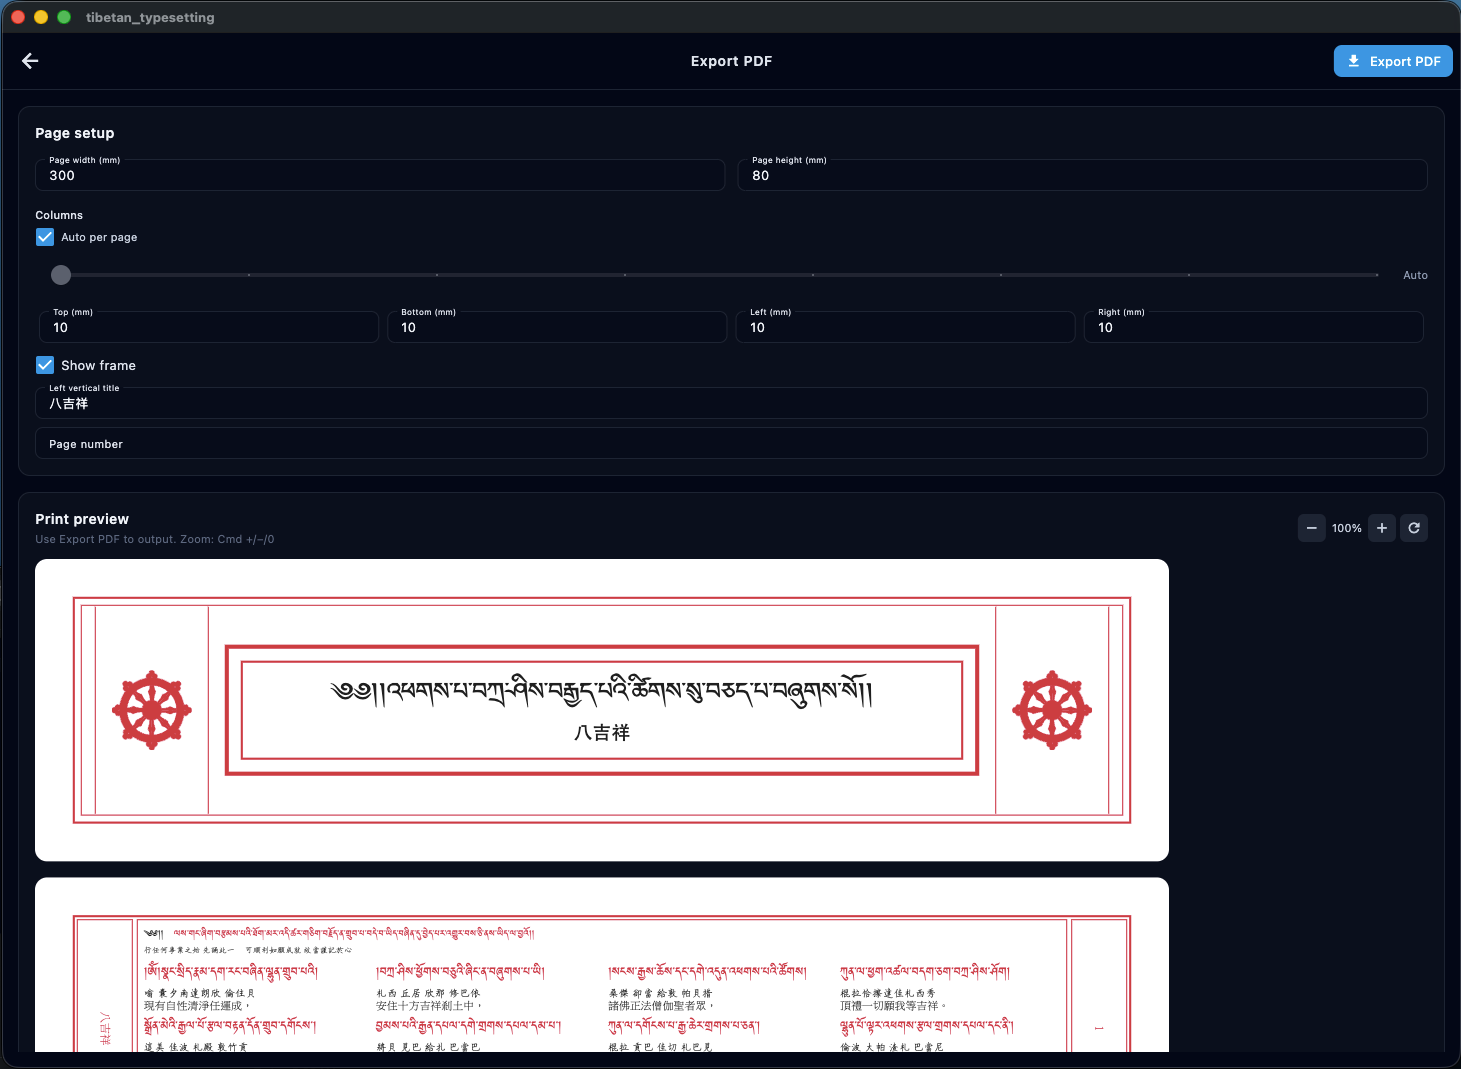
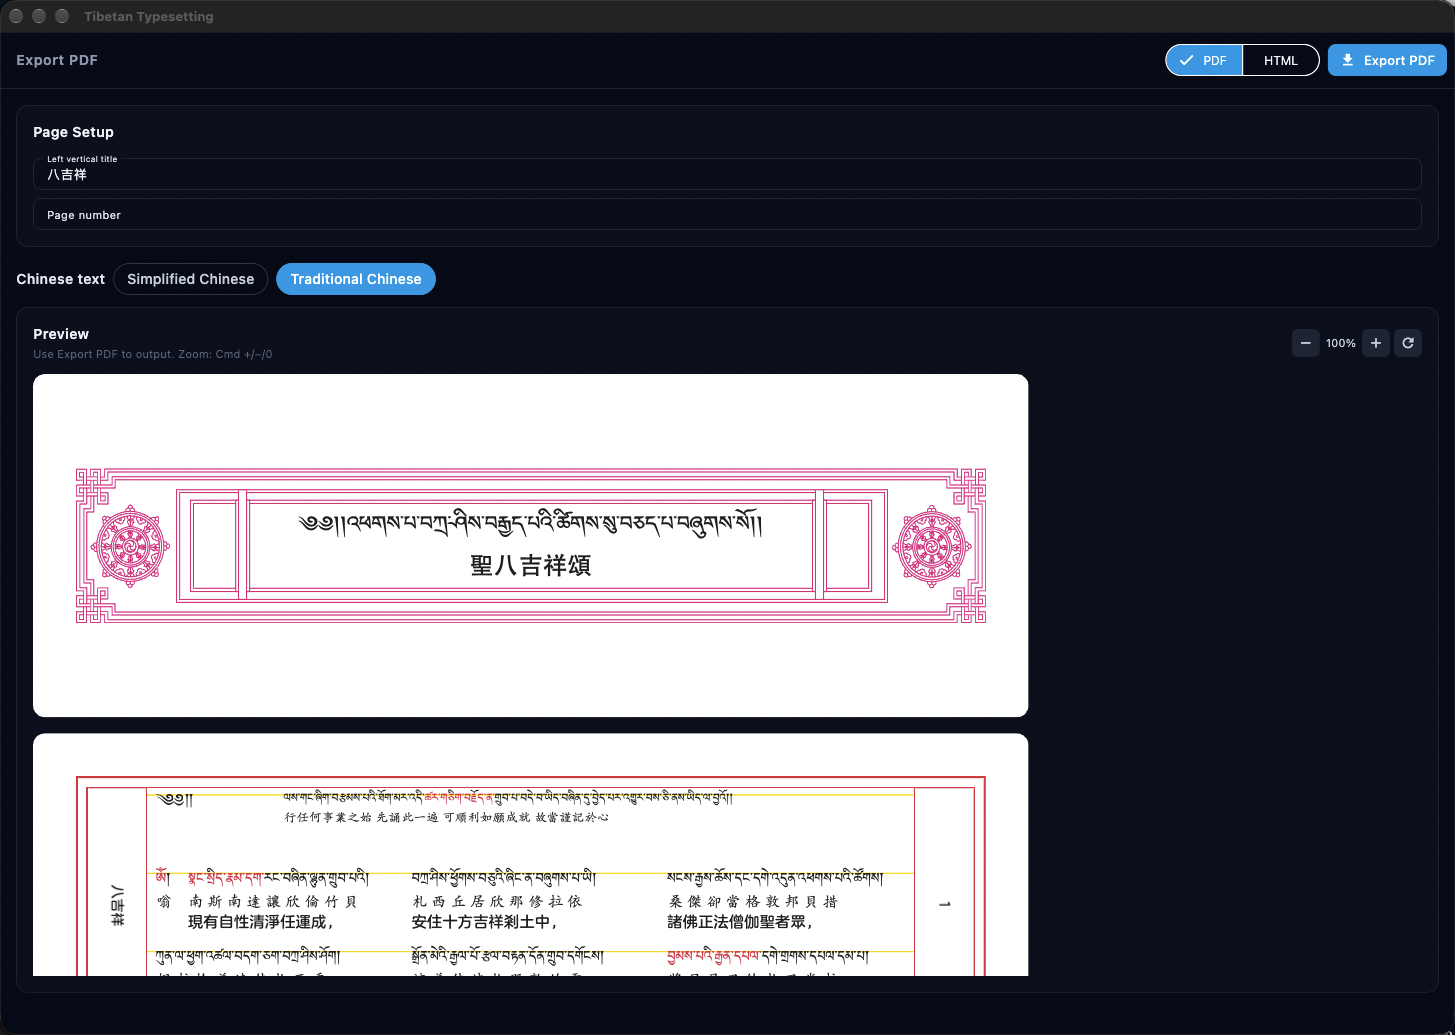
docs: refresh READMEs and screenshots for the workspace UI
- Document the workspace sidebar (Projects, Dictionary, Templates,
  Settings, recent projects) and the Templates page.
- Document the Tibetan-Chinese spacing settings (px, negative allowed).
- Note descender-safe Tibetan rasters in the rendering pipeline.
- Add screenshots: settings panels, templates; refresh main screen,
  edit screen, export PDF, and pronunciation dictionary.
- Fix the Traditional Chinese README's render scale (4x -> ~6.4x).

diff --git a/README.md b/README.md
@@ -24,6 +24,11 @@ A Flutter desktop application for creating and exporting Tibetan text documents 
 - Red character highlight — mark selected words in heading text with red ink using range notation (e.g. `1-4,6-8`) while vowel marks, tshegs, and punctuation remain black
 - **Chinese script switch** — convert all Chinese text in a project between Simplified and Traditional with one click; script is auto-detected from content when unset
 
+### 🧭 Workspace Navigation
+- Left sidebar with Projects, Dictionary, Templates, and Settings destinations
+- Recent-projects list opens the editor directly
+- Projects, dictionary, templates, and settings share one workspace shell
+
 ### 🖼 Floating Images
 - Insert images into text blocks with precise positioning
 - Configurable image dimensions (width/height in mm)
@@ -50,6 +55,8 @@ A Flutter desktop application for creating and exporting Tibetan text documents 
 
 ![Edit Screen](screenshot/edit%20screen.png)
 
+![Editor Settings](screenshot/settings%20panels.png)
+
 ### 📄 Traditional Layout
 - Traditional Tibetan book layout (landscape orientation)
 - Configurable page dimensions and margins
@@ -58,11 +65,12 @@ A Flutter desktop application for creating and exporting Tibetan text documents 
 - Page and column break controls
 - Flow gap adjustment between text sections
 - Custom title page with Dharma Wheel symbol and configurable title fonts
-- **Custom SVG title page templates** rendered as true vector graphics in PDF, with configurable insets for template and title text regions
+- **Custom SVG title page templates** managed from the Templates page and rendered as true vector graphics in PDF, with configurable insets for template and title text regions
 - **Content page templates** — apply an SVG background template to all content pages with configurable export margins
 - Opening mark blocks at the start of content
 - Optional row separator lines in editor preview and PDF export
 - Configurable small block font size — independently adjust font size for compact ("small text") blocks in app settings and per-project font settings
+- **Tibetan–Chinese spacing** — configurable gap between Tibetan and Chinese lines for both the title page and content, in px; negative values overlap the lines
 - Flexible text sizing options with per-project font settings
 - Header and footer with configurable fields (file name, page number, date, custom text)
 
@@ -84,6 +92,7 @@ The application pre-renders Tibetan text to high-resolution PNG images (460 DPI)
 - Tibetan script requires OpenType GSUB/GPOS shaping for correct rendering (stacked glyphs, vowel positioning)
 - The `pdf` package cannot perform OpenType shaping
 - PNG rasterization via Flutter's text engine produces correct Tibetan rendering at the cost of larger file size and minor pixelation at extreme zoom levels (>400%)
+- Rasters include top and bottom padding so ascenders and descenders (e.g. the ུ in ཧཱུྃ) are not clipped
 - SHA-256 based image caching for efficient re-rendering
 
 ### DPI-Aware Preview
@@ -134,19 +143,21 @@ Fonts can be configured per-project through the font settings panel. Make sure r
 
 ## Usage
 
-1. **Create a Project**: Start from the main screen by creating a new project (optionally selecting a custom title page template)
+1. **Create a Project**: Start from the workspace; the left sidebar switches between Projects, Dictionary, Templates, and Settings. Create a new project (optionally selecting a custom title page template)
 2. **Add Content**: Add text blocks with Tibetan text, pronunciation, and translation
 3. **Pronunciation Auto-fill**: The editor auto-fills pronunciation from the dictionary as you type; unknown syllables are highlighted and shown as `X`
 4. **Red Highlight**: Enter a range (e.g. `1-4,6`) in the block's highlight field to render selected heading words in red ink in both preview and PDF
 5. **Insert Images**: Add floating images to blocks with position and size control
 6. **Batch Import**: Import multiple text blocks at once from CSV/TSV files
 7. **Edit Layout**: Configure page setup, margins, column count, flow gap, row lines, and headers/footers
-8. **Title Page Templates**: Upload SVG templates in Settings, then assign them per project with configurable insets
+8. **Title Page Templates**: Open the Templates page from the sidebar, upload SVG templates, then assign them per project with configurable insets
 9. **Content Page Templates**: Assign an SVG background to all content pages with configurable export margins
 10. **Font Settings**: Customize fonts per-project for Tibetan, pronunciation, translation, title text, and small block size
 11. **Preview**: View live DPI-accurate preview with zoom controls of your document layout
 12. **Export**: Generate PDF, export HTML, or print directly from the app
-13. **Manage Dictionary**: Open the Pronunciation Dictionary page to view, search, edit, or delete saved syllable entries and export/import the dictionary as JSON
+13. **Manage Dictionary**: Open the Pronunciation Dictionary from the sidebar to view, search, edit, or delete saved syllable entries and export/import the dictionary as JSON
+
+![Templates](screenshot/templates.png)
 
 ![Pronunciation Dictionary](screenshot/pronunciation%20dictionary.png)
 
@@ -174,6 +185,7 @@ lib/
 │   ├── editor_page.dart            # Text editor
 │   ├── export_page.dart            # PDF/HTML export and preview
 │   ├── settings_page.dart          # Application settings
+│   ├── templates_page.dart         # Title page template management
 │   └── dictionary_page.dart        # Pronunciation dictionary management
 ├── services/                        # Business logic
 │   ├── chinese_conversion_service.dart  # Simplified ↔ Traditional Chinese conversion
@@ -227,8 +239,12 @@ lib/
     ├── sample_page.dart             # Page preview
     ├── sample_pages.dart            # Multi-page preview
     ├── scaled_preview.dart          # Scaled preview wrapper
+    ├── settings_controls.dart       # Shared compact settings controls
+    ├── text_field_dialog.dart       # Shared single-field dialog
     ├── title_page_settings_panel.dart # Title page configuration
-    └── title_page_widget.dart       # Title page preview
+    ├── title_page_widget.dart       # Title page preview
+    ├── workspace_shell.dart         # Workspace root (sidebar + page)
+    └── workspace_sidebar.dart       # Workspace navigation rail
 ```
 
 ## Development
@@ -280,6 +296,7 @@ flutter build linux
 - **ScreenDpiService**: Queries physical screen DPI via platform channel for accurate preview scaling
 - **TitlePageTemplateService**: CRUD singleton for custom SVG title page templates
 - **TibetanSegmenter**: Splits Tibetan text into syllables by tsheg (་); parses range notation for red highlight
+- **WorkspaceShell / WorkspaceSidebar**: Root workspace combining the navigation rail (Projects, Dictionary, Templates, Settings) with the selected page
 
 ### Page Layout Algorithm
 

diff --git a/README.zh-TW.md b/README.zh-TW.md
@@ -1,5 +1,7 @@
 # 藏文排版 &nbsp;·&nbsp; v1.1.13
 
+[English](README.md) | 繁體中文
+
 <p align="center">
   <img src="assets/images/icon.png" width="128" alt="應用程式圖示"/>
 </p>
@@ -21,6 +23,11 @@
 - 復原/重做支援（最多 50 個狀態）
 - 紅色字元強調 — 使用範圍標記（如 `1-4,6-8`）將標題中選定的詞語以紅字標示，母音符號、tsheg 和標點保持黑色
 - **中文字體切換** — 一鍵將專案內所有中文文字在繁體與簡體之間相互轉換；未設定時自動從內容偵測字體
+
+### 🧭 工作區導覽
+- 左側邊欄提供專案、詞典、範本與設定四個目的地
+- 最近專案清單可直接開啟編輯器
+- 專案、詞典、範本與設定共用同一個工作區外殼
 
 ### 🖼 浮動圖片
 - 在文字區塊中插入圖片並精確定位
@@ -48,6 +55,8 @@
 
 ![編輯畫面](screenshot/edit%20screen.png)
 
+![編輯器設定](screenshot/settings%20panels.png)
+
 ### 📄 傳統排版格式
 - 傳統藏文書籍排版（橫向方向）
 - 可自訂的頁面尺寸和邊距
@@ -56,11 +65,12 @@
 - 分頁和分欄控制
 - 文字流間距調整
 - 自訂封面頁，帶有法輪符號及可設定標題字型
-- **自訂 SVG 封面頁模板** — 以純向量圖形嵌入 PDF，支援模板和標題文字區域的可設定內縮距離
+- **自訂 SVG 封面頁模板** — 從範本頁面管理，以純向量圖形嵌入 PDF，支援模板和標題文字區域的可設定內縮距離
 - **內容頁模板** — 為所有內容頁套用 SVG 背景模板，可設定匯出邊距
 - 內容起始的開頭標記區塊
 - 編輯器預覽和 PDF 匯出中的可選列分隔線
 - 可設定的「小字」字型大小 — 在應用設定與各專案字型設定中獨立調整緊湊區塊的字型大小
+- **藏文與中文間距** — 可設定封面頁與內容的藏文、中文行距（單位 px）；負值可讓兩行重疊
 - 彈性的文字大小選項，支援每專案字型設定
 - 頁首和頁尾，可設定欄位（檔案名稱、頁碼、日期、自訂文字）
 
@@ -82,6 +92,7 @@
 - 使用 Flutter 原生文字引擎預渲染藏文文字
 - 將文字轉換為高解析度 PNG 圖片（460 DPI）
 - 將圖片嵌入 PDF 以保留複雜的 OpenType 字型塑形
+- 點陣圖保留上下內距，避免升部與降部（例如 ཧཱུྃ 的 ུ）被裁切
 - 基於 SHA-256 的圖片快取，提升重新渲染效率
 - 這個解決方案確保完美的藏文字型顯示，這是標準 PDF 文字渲染無法達成的
 
@@ -133,19 +144,21 @@ flutter run
 
 ## 使用方式
 
-1. **創建專案**：從主畫面開始創建新專案（可選擇自訂封面頁模板）
+1. **創建專案**：從工作區開始；左側邊欄可在專案、詞典、範本與設定之間切換。創建新專案（可選擇自訂封面頁模板）
 2. **新增內容**：新增包含藏文文字、讀音和翻譯的文字區塊
 3. **讀音自動填入**：輸入藏文時，編輯器會自動從詞典填入讀音；未知音節以高亮和 `X` 標示
 4. **紅色強調**：在區塊的強調欄位輸入範圍（如 `1-4,6`），讓標題中選定的詞語在預覽和 PDF 中以紅字顯示
 5. **插入圖片**：在區塊中新增浮動圖片，可控制位置和尺寸
 6. **批次匯入**：從 CSV/TSV 檔案一次匯入多個文字區塊
 7. **編輯排版**：設定頁面設定、邊距、欄數、流間距、列分隔線和頁首頁尾
-8. **封面頁模板**：在設定頁面上傳 SVG 模板，然後依專案指定並設定內縮距離
+8. **封面頁模板**：從側邊欄開啟範本頁面，上傳 SVG 模板，然後依專案指定並設定內縮距離
 9. **內容頁模板**：為所有內容頁指定 SVG 背景，並設定匯出邊距
 10. **字型設定**：依專案自訂藏文、讀音、翻譯、標題文字及小字區塊大小的字型
 11. **預覽**：使用縮放控制即時查看 DPI 精確的文檔排版預覽
 12. **匯出**：生成 PDF、匯出 HTML 或直接從應用程式列印
-13. **管理詞典**：開啟讀音詞典頁面，檢視、搜尋、編輯或刪除已儲存的音節項目，並可匯出／匯入 JSON
+13. **管理詞典**：從側邊欄開啟讀音詞典，檢視、搜尋、編輯或刪除已儲存的音節項目，並可匯出／匯入 JSON
+
+![範本](screenshot/templates.png)
 
 ![讀音詞典](screenshot/pronunciation%20dictionary.png)
 
@@ -173,6 +186,7 @@ lib/
 │   ├── editor_page.dart            # 文字編輯器
 │   ├── export_page.dart            # PDF/HTML 匯出和預覽
 │   ├── settings_page.dart          # 應用程式設定
+│   ├── templates_page.dart         # 封面頁模板管理
 │   └── dictionary_page.dart        # 讀音詞典管理
 ├── services/                        # 業務邏輯
 │   ├── chinese_conversion_service.dart  # 簡繁中文相互轉換
@@ -226,8 +240,12 @@ lib/
     ├── sample_page.dart             # 頁面預覽
     ├── sample_pages.dart            # 多頁面預覽
     ├── scaled_preview.dart          # 縮放預覽包裝器
+    ├── settings_controls.dart       # 共用精簡設定控制項
+    ├── text_field_dialog.dart       # 共用單欄位對話框
     ├── title_page_settings_panel.dart # 封面頁設定
-    └── title_page_widget.dart       # 封面頁預覽
+    ├── title_page_widget.dart       # 封面頁預覽
+    ├── workspace_shell.dart         # 工作區根層（側邊欄 + 頁面）
+    └── workspace_sidebar.dart       # 工作區導覽側邊欄
 ```
 
 ## 開發
@@ -279,6 +297,7 @@ flutter build linux
 - **ScreenDpiService**：透過平台通道查詢實體螢幕 DPI，用於精確的預覽縮放
 - **TitlePageTemplateService**：自訂 SVG 封面頁模板的 CRUD 單例服務
 - **TibetanSegmenter**：藏文音節切分工具，基於 tsheg（་）分割；解析紅字範圍標記
+- **WorkspaceShell / WorkspaceSidebar**：工作區根層，結合導覽側邊欄（專案、詞典、範本、設定）與目前頁面
 
 ### 頁面排版演算法
 
@@ -292,7 +311,7 @@ flutter build linux
 
 1. 文字輸入 → `TextPainter`（Flutter 的文字引擎）
 2. 檢查圖片快取（基於文字 + 字型 + 大小的 SHA-256 金鑰）
-3. 以 4 倍比例渲染為 `Picture`，以達到高 DPI
+3. 以約 6.4 倍比例渲染為 `Picture`（72-DPI PDF 座標空間中的 460 DPI）
 4. 轉換為 PNG 位元組並快取
 5. 以圖片形式嵌入 PDF
 
